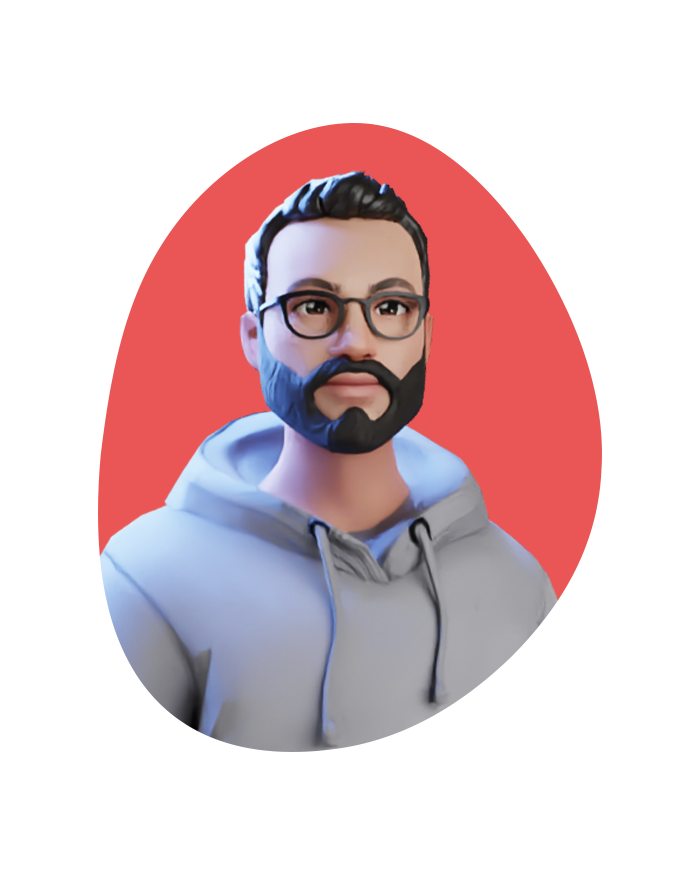
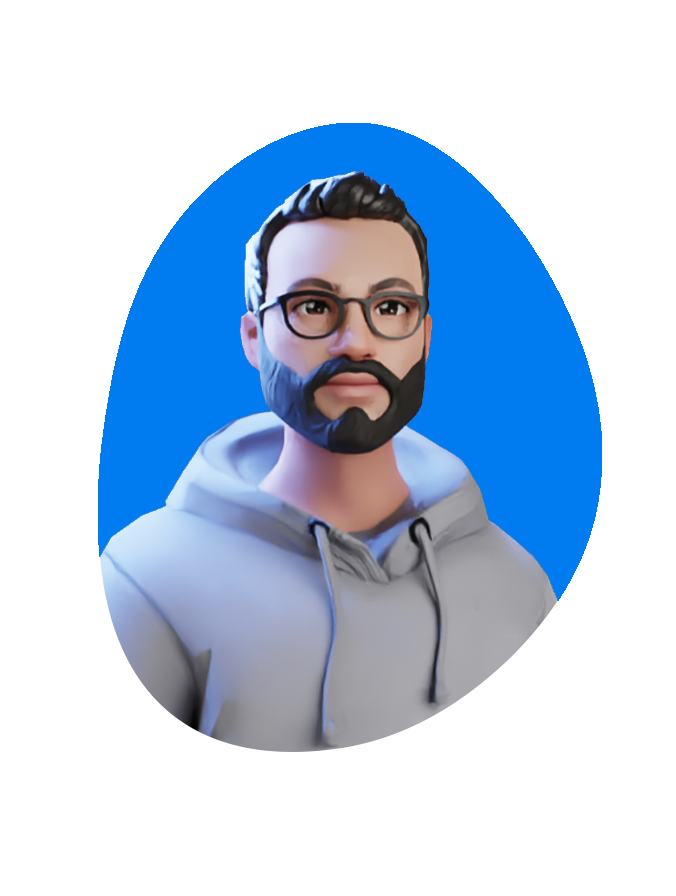
feat: new layout

Changed region(s): [[0.1243, 0.125, 0.9009, 0.6875]]

diff --git a/style.css b/style.css
@@ -12,21 +12,7 @@
 body {
   overflow-y: scroll;
   overflow-x: hidden;
-  background-image: linear-gradient(-80deg, #13161d, #14213d);
-  background-size: 400% 400%;
-  animation: gradient 15s ease infinite;
-}
-
-@keyframes gradient {
-  0% {
-    background-position: 0% 50%;
-  }
-  50% {
-    background-position: 100% 50%;
-  }
-  100% {
-    background-position: 0% 50%;
-  }
+  background-color: #010101;
 }
 
 /* Navbar */
@@ -66,7 +52,7 @@ body {
 
 .contact-span {
   font-weight: 600;
-  color: #5c7aea;
+  color: #007cf0;
 }
 
 .header .logo {
@@ -75,7 +61,7 @@ body {
   font-size: 20px;
   padding: 10px 20px;
   text-decoration: none;
-  color: #ea5656;
+  color: #737885;
 }
 
 .logo img {
@@ -105,7 +91,7 @@ body {
 }
 
 .header .menu-icon .navicon {
-  background: #417add;
+  background: #007cf0;
   display: block;
   height: 2px;
   position: relative;
@@ -115,7 +101,7 @@ body {
 
 .header .menu-icon .navicon:before,
 .header .menu-icon .navicon:after {
-  background: #417add;
+  background: #007cf0;
   content: '';
   display: block;
   height: 100%;
@@ -203,7 +189,7 @@ body {
 }
 
 .title {
-  font-size: 70px;
+  font-size: 5rem;
   font-weight: 900;
   letter-spacing: -2.1px;
   white-space: nowrap;
@@ -225,21 +211,19 @@ body {
   padding: 8px 30px;
   border-radius: 8px;
   color: #fff;
-  background-color: #ea5656;
+  background-color: #007CF0;
   font-size: 18px;
   font-weight: 600;
 }
 .cv {
   padding: 4px;
-  border-radius: 8px;
-  color: #737885;
-  font-weight: 400;
   font-size: 18px;
 }
 
 .cv a {
-  color: #1363df;
-  font-weight: 600;
+  color: #fff;
+  font-weight: 500;
+  border-bottom: 3px solid #007CF0;
 }
 
 .row-about {
@@ -264,7 +248,7 @@ body {
 }
 
 .item-about p a {
-  color: #1860de;
+  color: #007cf0;
   font-weight: 500;
 }
 
@@ -344,7 +328,8 @@ body {
     margin: 5px 0px;
   }
   .title {
-    display: none;
+    font-size: 3rem;
+    text-align: center;
   }
   .title-gradient {
     margin-top: 40px;
@@ -441,7 +426,6 @@ body {
   justify-content: center;
   align-items: center;
   flex-wrap: wrap;
-  margin-top: 20px;
 }
 
 .row-project {
@@ -457,9 +441,8 @@ body {
   letter-spacing: -2.1px;
   white-space: nowrap;
   margin-bottom: -1px;
-  margin-top: 60px;
   text-align: center;
-  color: #ea5656;
+  color: #fff;
 }
 
 .overlay {
@@ -481,7 +464,7 @@ body {
   display: flex;
   justify-content: center;
   align-items: center;
-  background-color: #ea5656;
+  background-color: #007CF0;
 }
 
 .overlay-text {
@@ -558,7 +541,7 @@ body {
   left: 0;
   display: flex;
   justify-content: center;
-  background-color: #ea5656;
+  background-color: #007CF0;
 }
 
 /* Contact */
@@ -577,7 +560,7 @@ body {
   margin-bottom: -1px;
   margin-top: 50px;
   text-align: center;
-  color: #ea5656;
+  color: #fff;
 }
 @keyframes animated_text {
   0% {
@@ -615,7 +598,7 @@ body {
   background-color: transparent;
   border-radius: 8px;
   margin-top: 22px;
-  background-color: #ea5656;
+  background-color: #007CF0;
   cursor: pointer;
 }
 
@@ -631,7 +614,7 @@ body {
 
 .item-contact p {
   font-weight: 400;
-  color: #1860de;
+  color: #007CF0;
   font-weight: 400;
 }
 
@@ -642,7 +625,7 @@ body {
   color: #fff;
   font-weight: 400;
   margin: 25px;
-  border: 2px solid #ea5656;
+  border: 2px solid #007CF0;
 }
 
 .made {
@@ -652,7 +635,7 @@ body {
 }
 
 .made a {
-  color: #1860de;
+  color: #007CF0;
 }
 
 form {

diff --git a/index.html b/index.html
@@ -30,14 +30,9 @@
         ><span class="navicon"></span
       ></label>
       <ul class="menu">
+       
         <li>
-          <a href="#"><span>Skills</span> </a>
-        </li>
-        <li>
-          <a href="#"><span>Projects and Works</span> </a>
-        </li>
-        <li>
-          <a href="#"><span>Experience</span> </a>
+          <a href="#projects"><span>Projects</span> </a>
         </li>
         <li>
           <a class="contact" href="#contact"
@@ -63,7 +58,7 @@
           <p class="p-about">
             ❤ I love the intersection of code and design &ensp;<br />
             💬 I like to talk about web3 and cyber security <br />
-            🦄 I created a webApp for devs 👉
+            🚀 I created a webApp for devs 👉
             <a target="_blank" href="https://tools4css.vercel.app">Tools4CSS</a>
           </p>
 
@@ -71,16 +66,13 @@
             <a
               href="http://github.com/gomestzx"
               target="_blank"
-              download
               class="btn-projects"
             >
               check my projects
             </a>
 
-            <span href="#projects" class="cv">
-              <span class="btn-span"
-                >or download my resume <a href="./assets/curriculo.pdf">here</a>
-              </span>
+            <span class="cv">
+              <a href="./assets/curriculo.pdf" download>or download my resume here</a>
             </span>
           </div>
         </div>
@@ -95,6 +87,8 @@
         </div>
       </div>
     </div>
+
+    <!-- Social Icons 
 
     <div
       class="social-icons"
@@ -111,7 +105,7 @@
       <a href="https://api.whatsapp.com/send?phone=5591993444646"
         ><img src="./assets/wathsapp.png" alt=""
       /></a>
-    </div>
+    </div> -->
 
     <!-- Projects -->
 
@@ -133,7 +127,7 @@
             <div class="overlay-text">
               <h3>Tools4CSS</h3>
               <p> Tools to help developers build interfaces modern quickly</p>
-                <a href="https://tools4css.vercel.app/" target="_blank"
+                <a href="https://tools4css.com" target="_blank"
                   >DEMO</a
                 >
               </h5>
